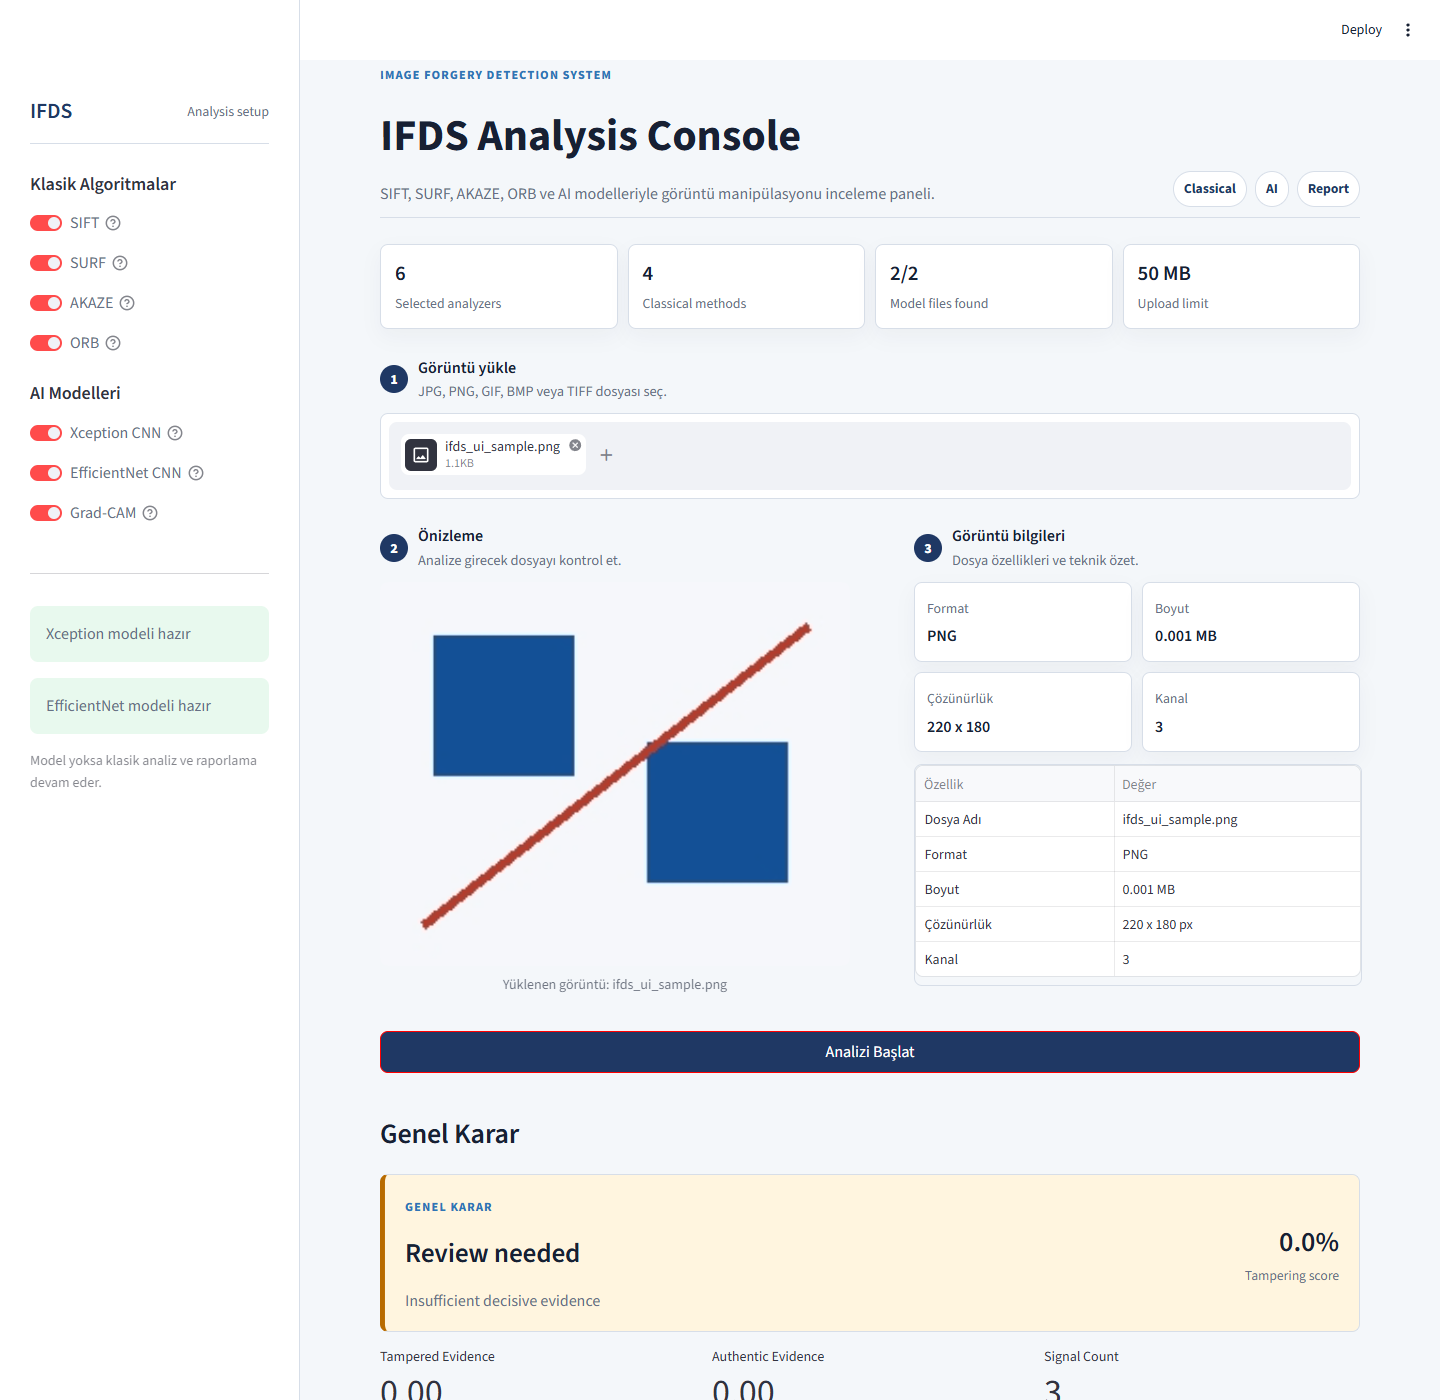
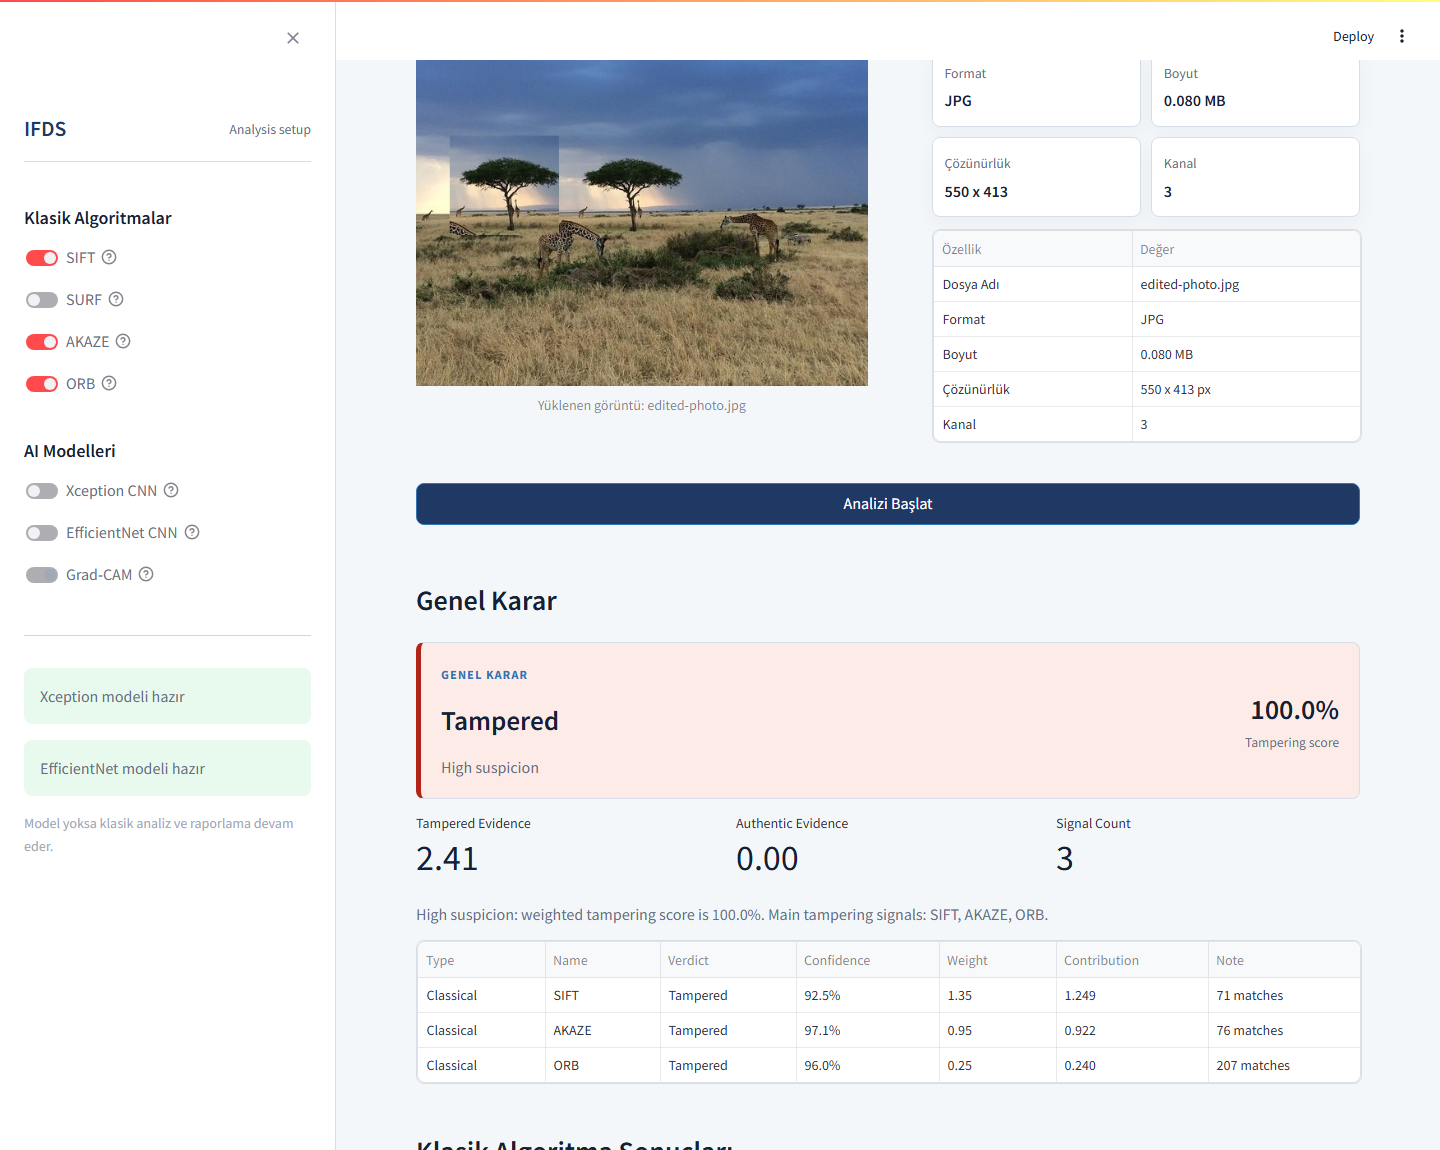
Update README analysis screenshot

diff --git a/README.md b/README.md
@@ -19,7 +19,7 @@ IFDS, görüntü manipülasyonu tespiti için geliştirilen Streamlit tabanlı b
 
 ### Analiz Sonucu
 
-![IFDS analiz örnek görseli](tests/edited-photo.jpg)
+![IFDS analiz ekranı](docs/quality_outputs/frontend/ifds_frontend_analysis.png)
 
 ### Mobil Görünüm
 
